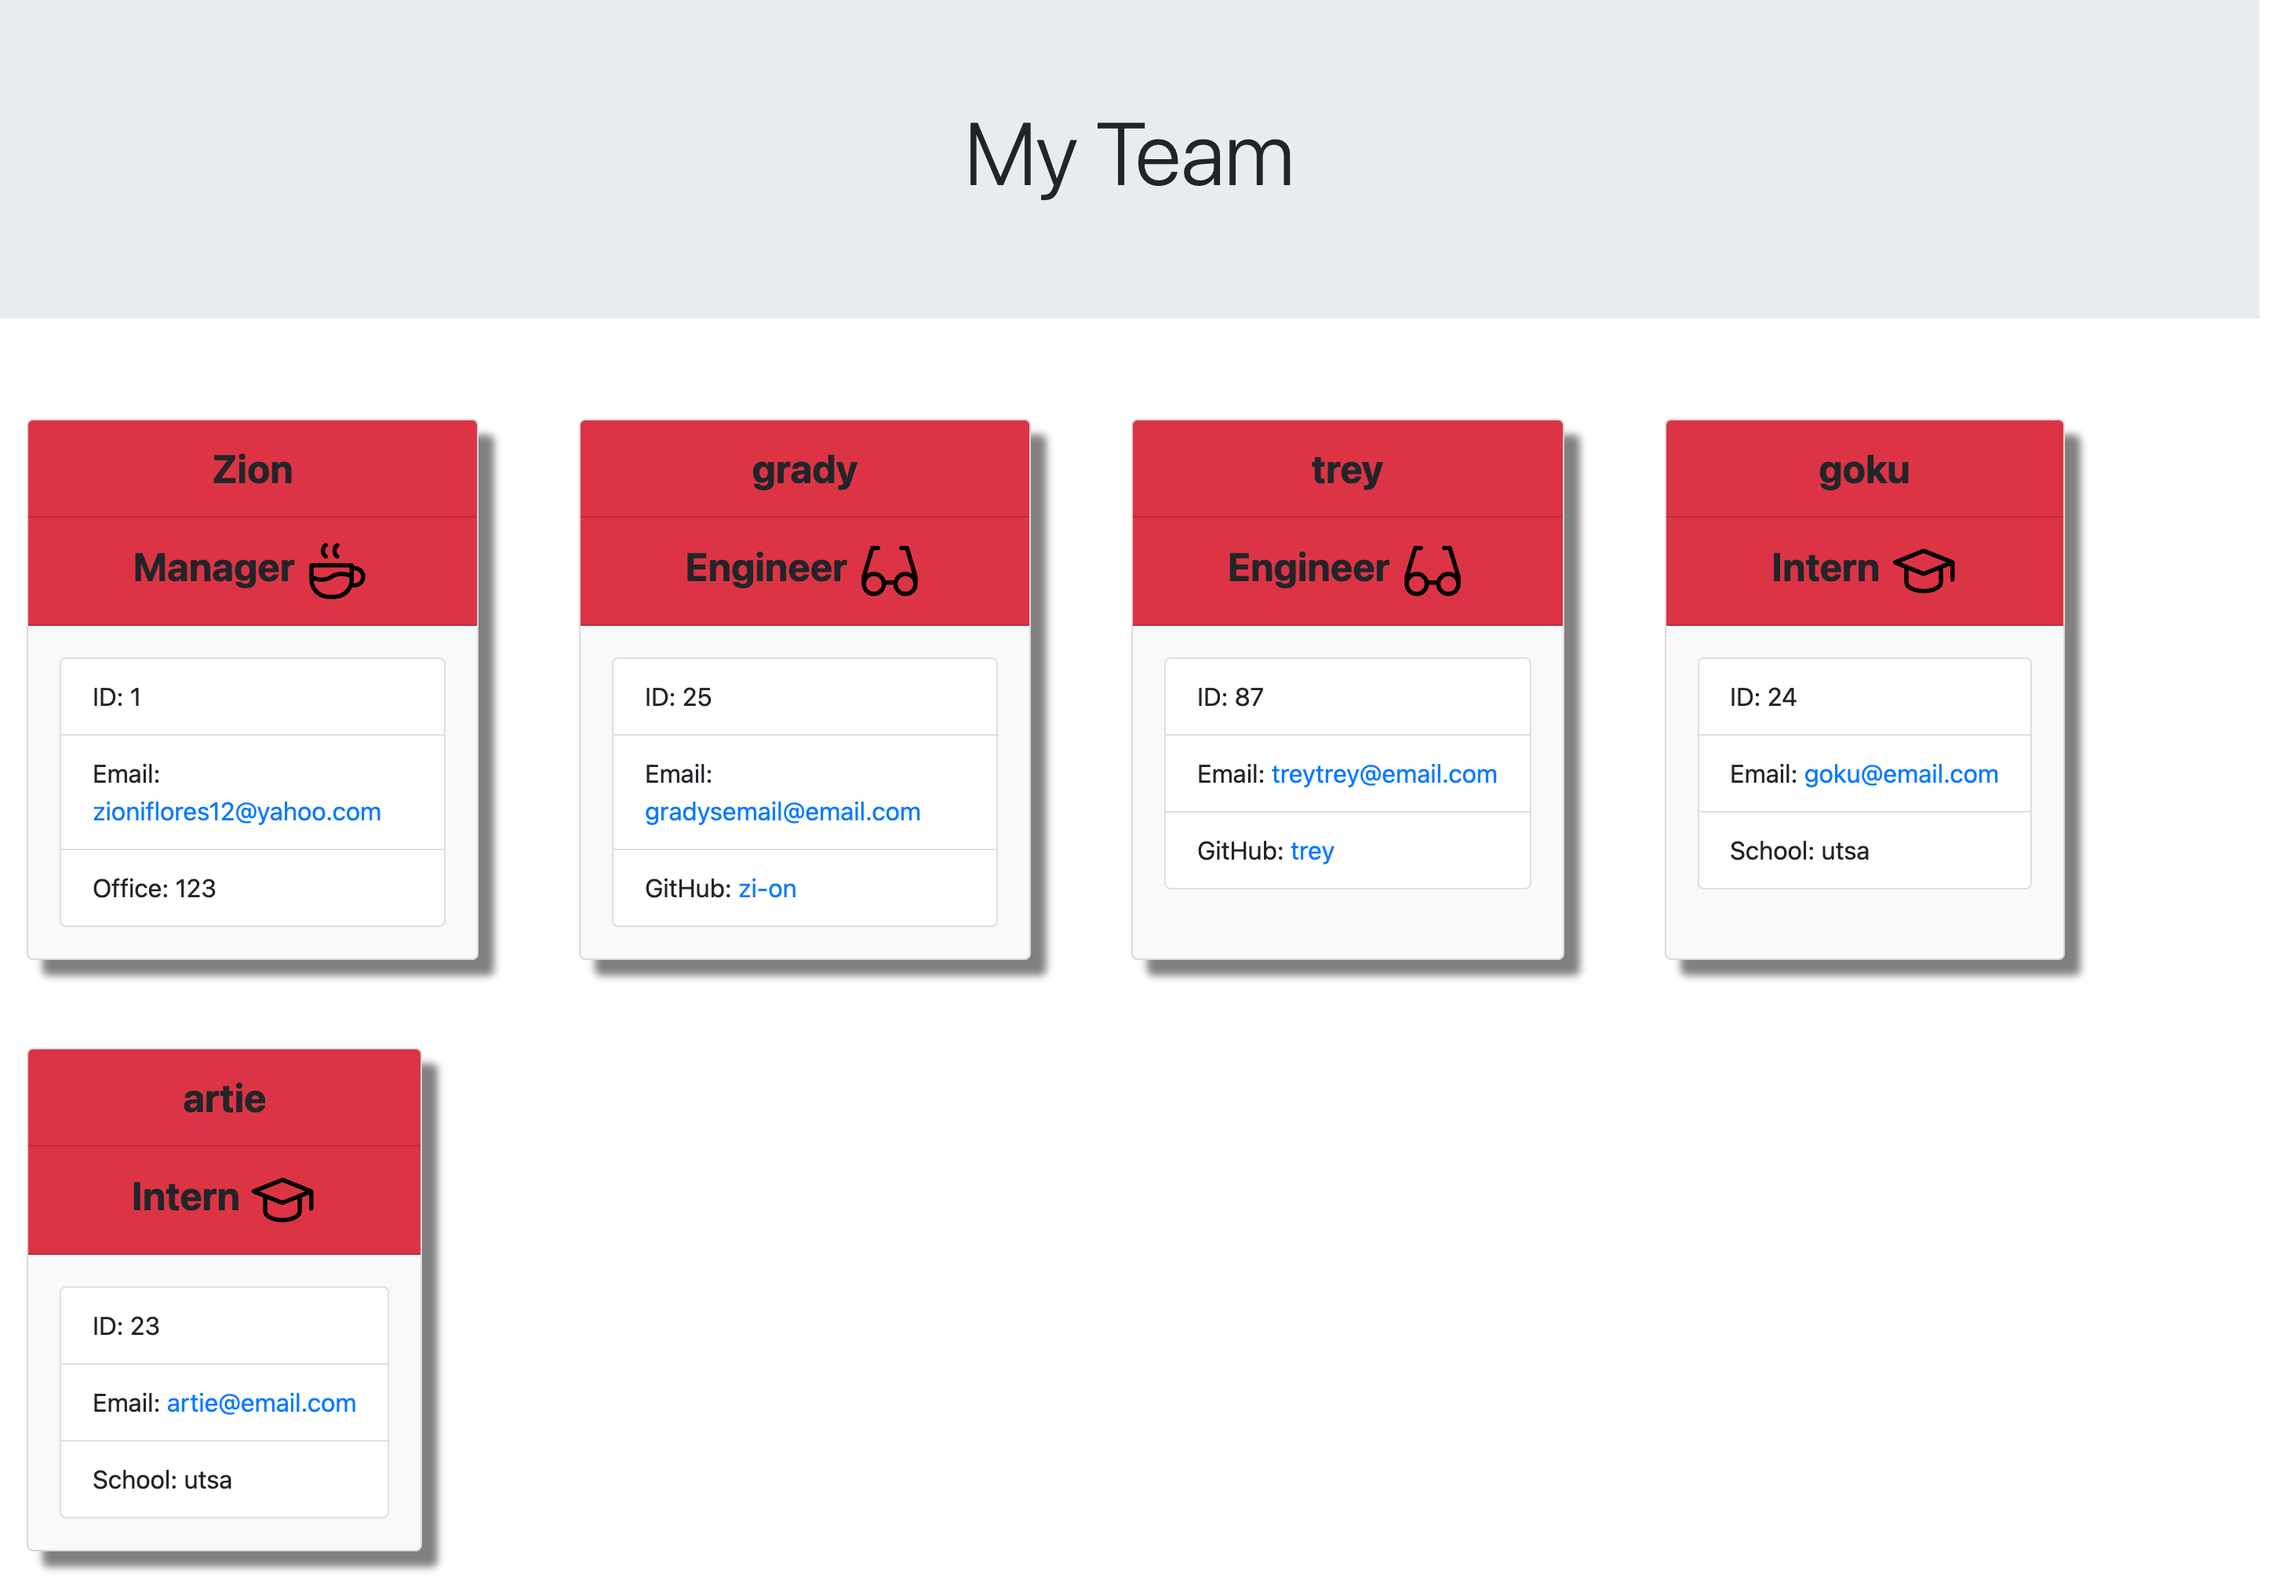
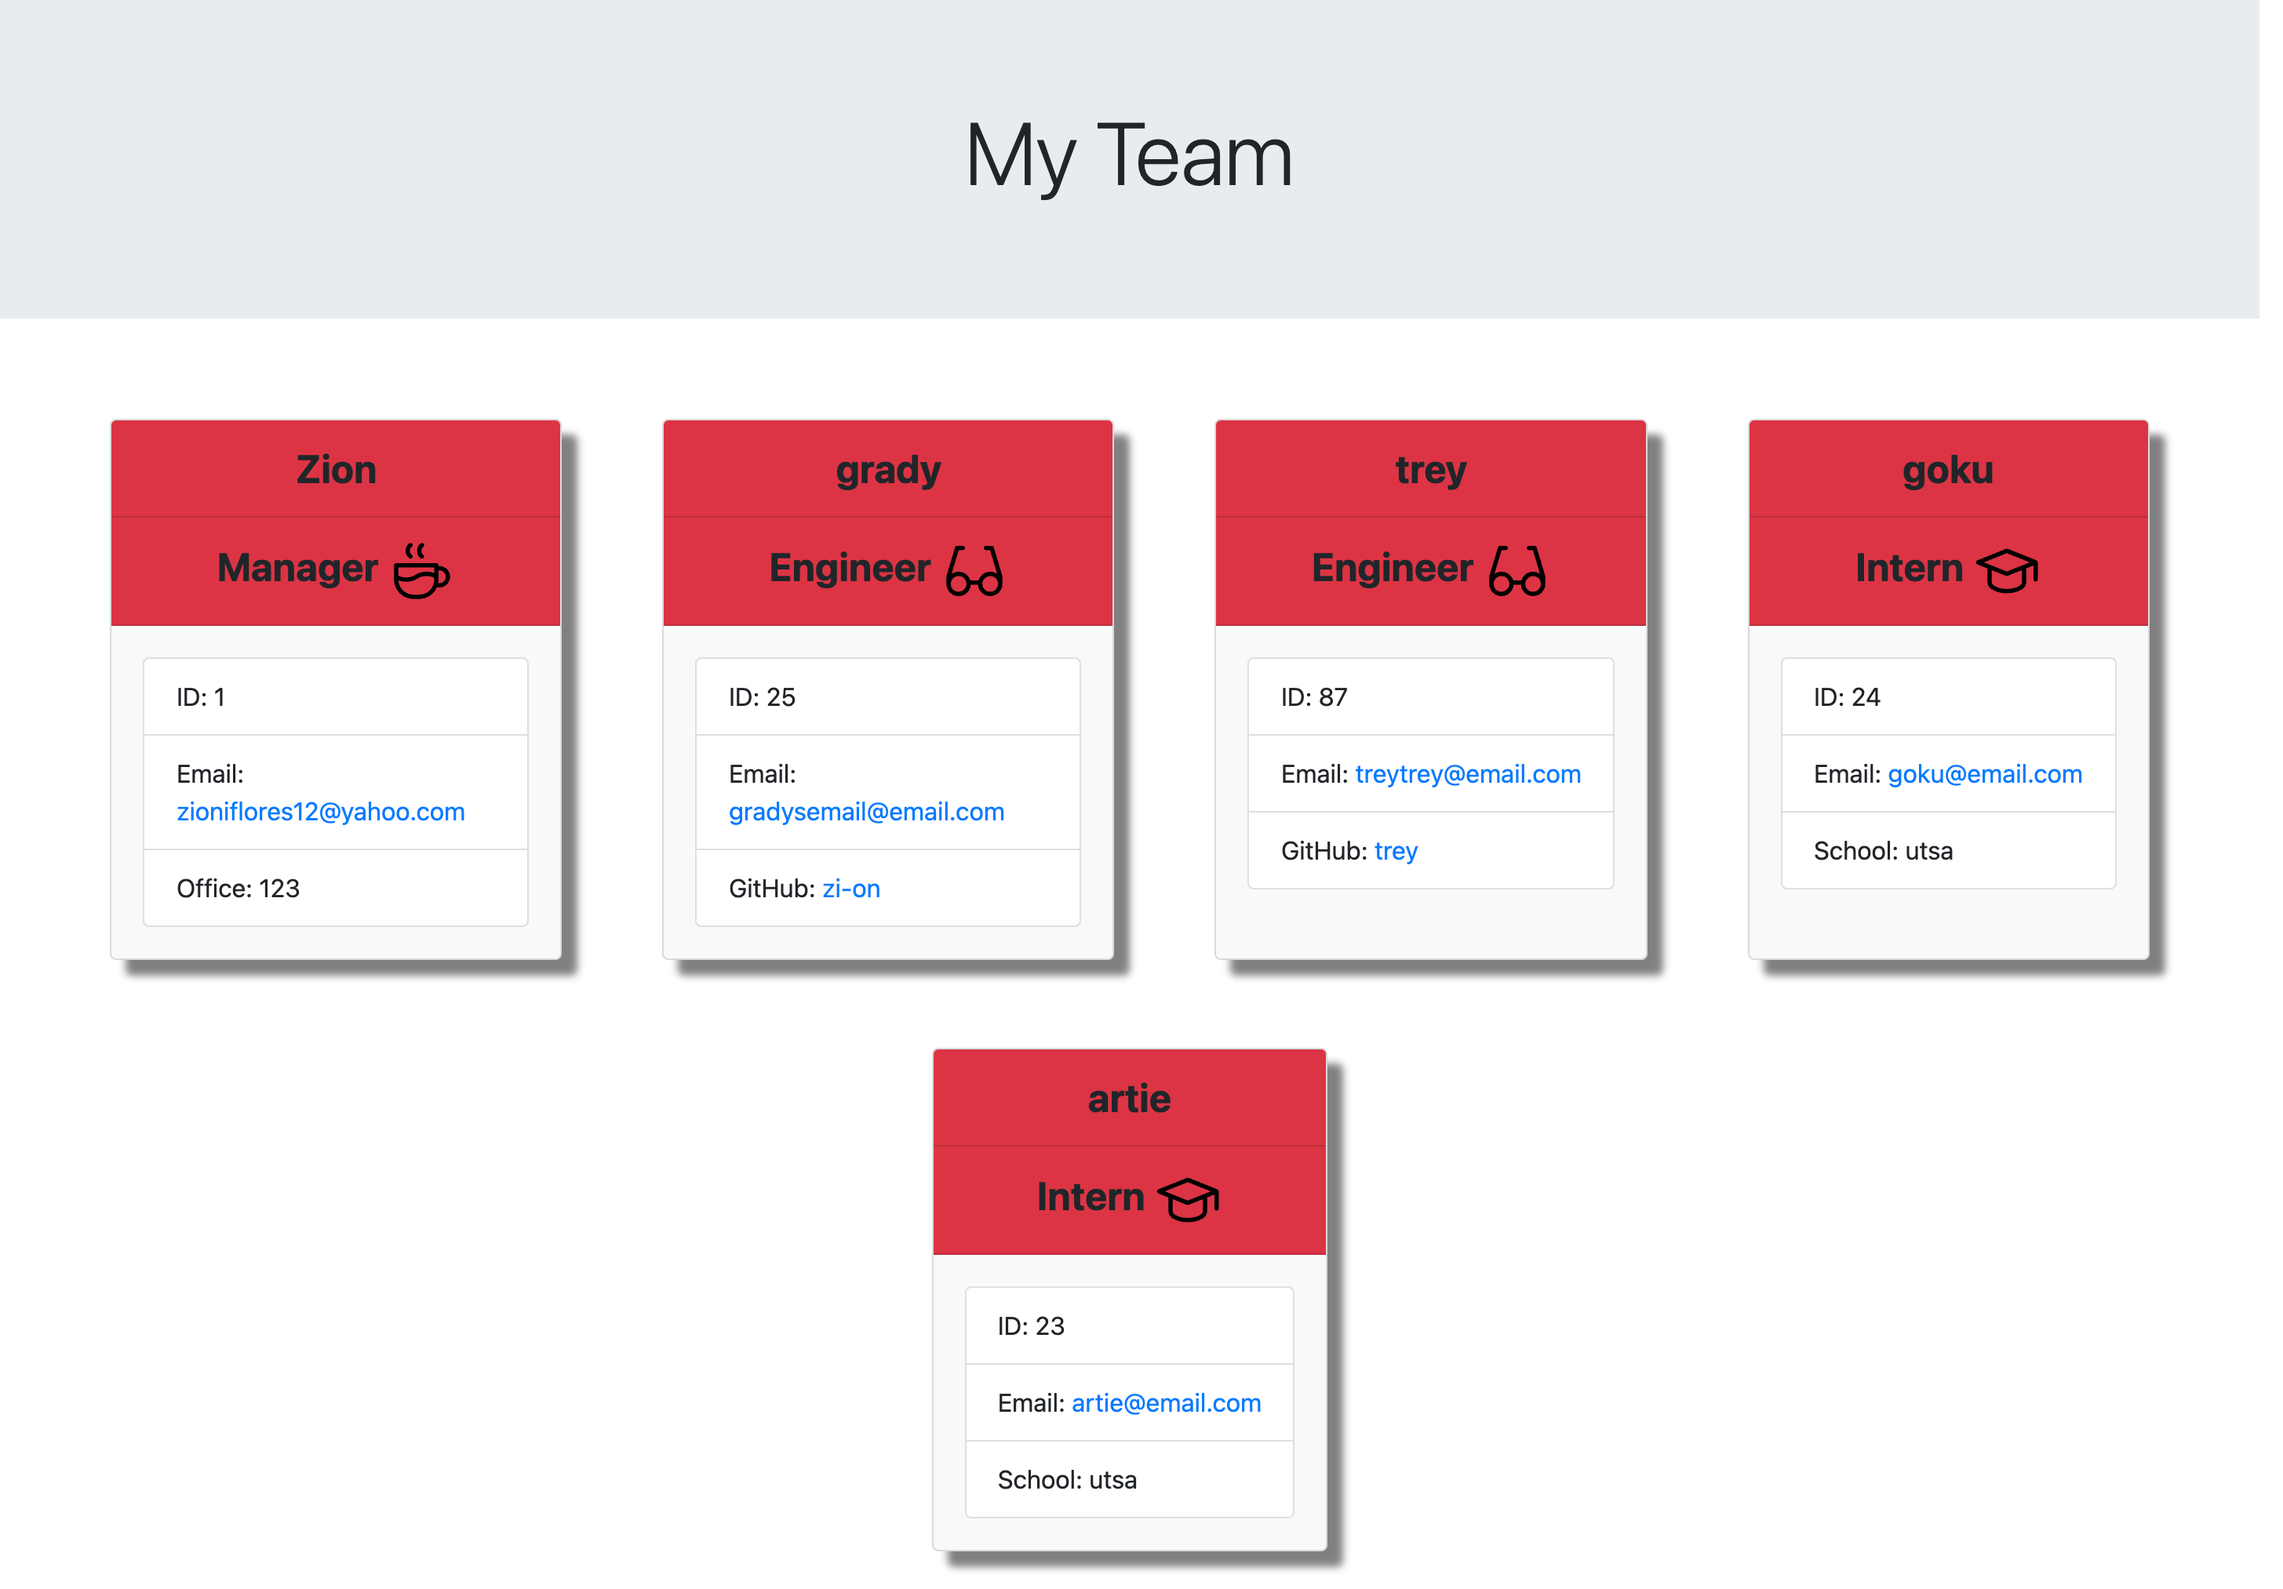
centered my cards

diff --git a/index.html b/index.html
@@ -16,7 +16,7 @@
           <h1 class="display-4 text-center">My Team</h1>
         </div>
     </div>
-    <div class="row">
+    <div class="row justify-content-center">
     <div class="card bg-light mb-4" style="max-width: 18rem;">
         <div class="card-header bg-danger">Zion</div>
         <div class="card-header bg-danger">Manager <svg xmlns="http://www.w3.org/2000/svg" class="icon icon-tabler icon-tabler-coffee" width="44" height="44" viewBox="0 0 24 24" stroke-width="1.5" stroke="#000000" fill="none" stroke-linecap="round" stroke-linejoin="round">

diff --git a/index.js b/index.js
@@ -28,7 +28,7 @@ const generateTopHtml = () => {
           <h1 class="display-4 text-center">My Team</h1>
         </div>
     </div>
-    <div class="row">`
+    <div class="row justify-content-center">`
 }
 
 const generateManagerCard = (manager) => {
